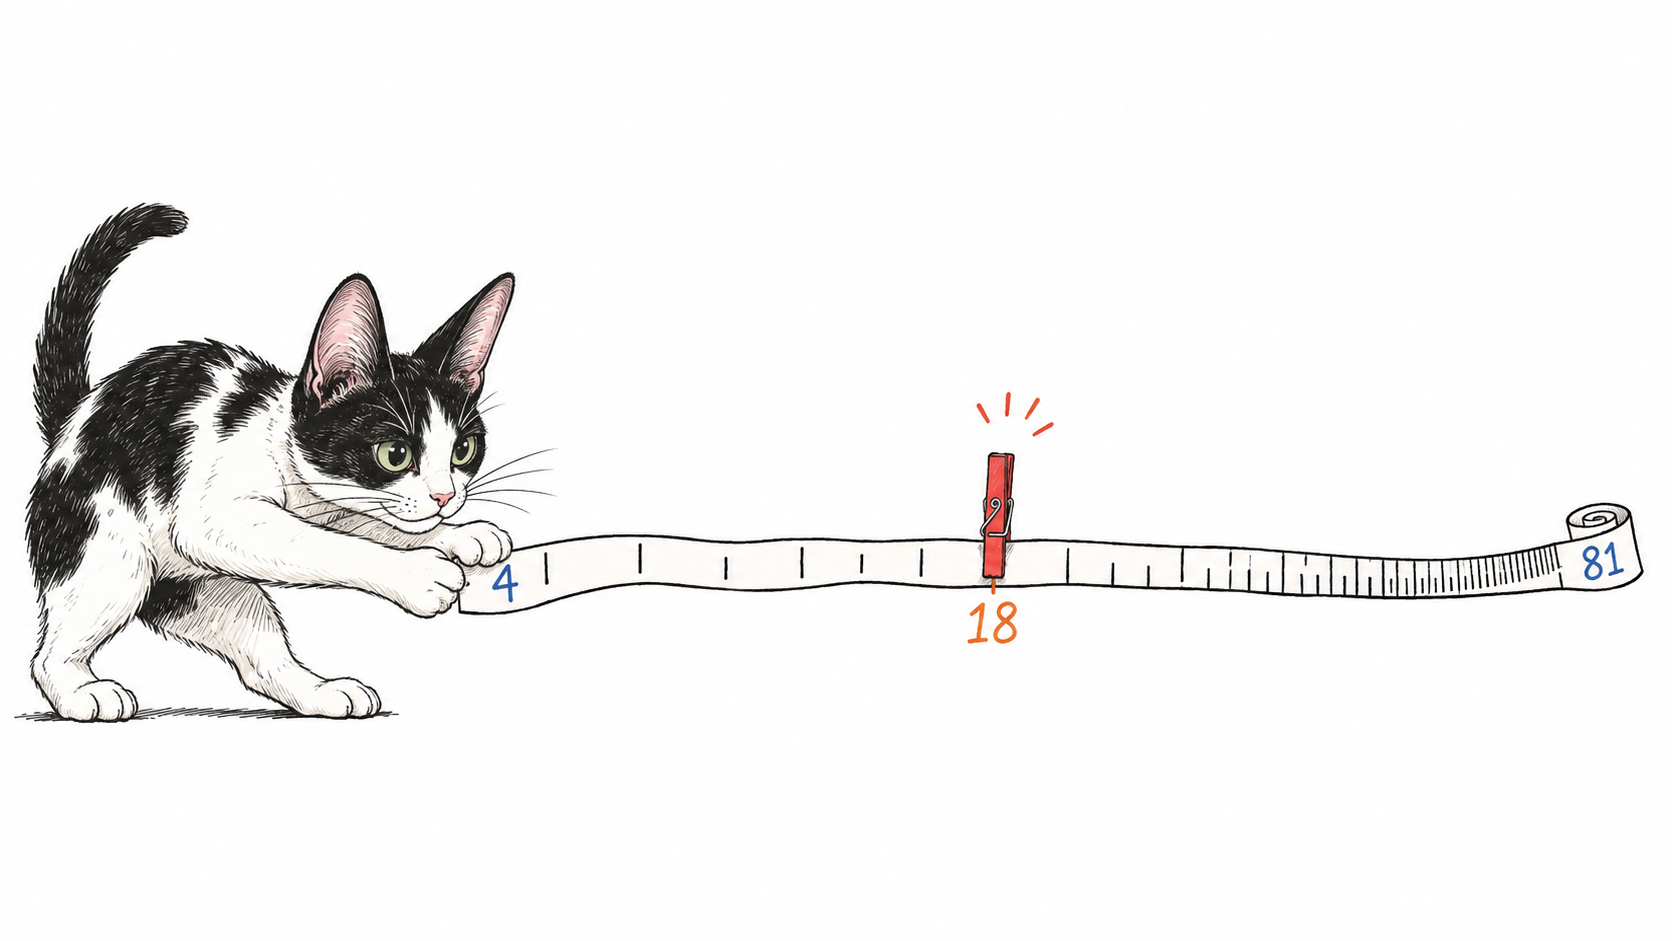
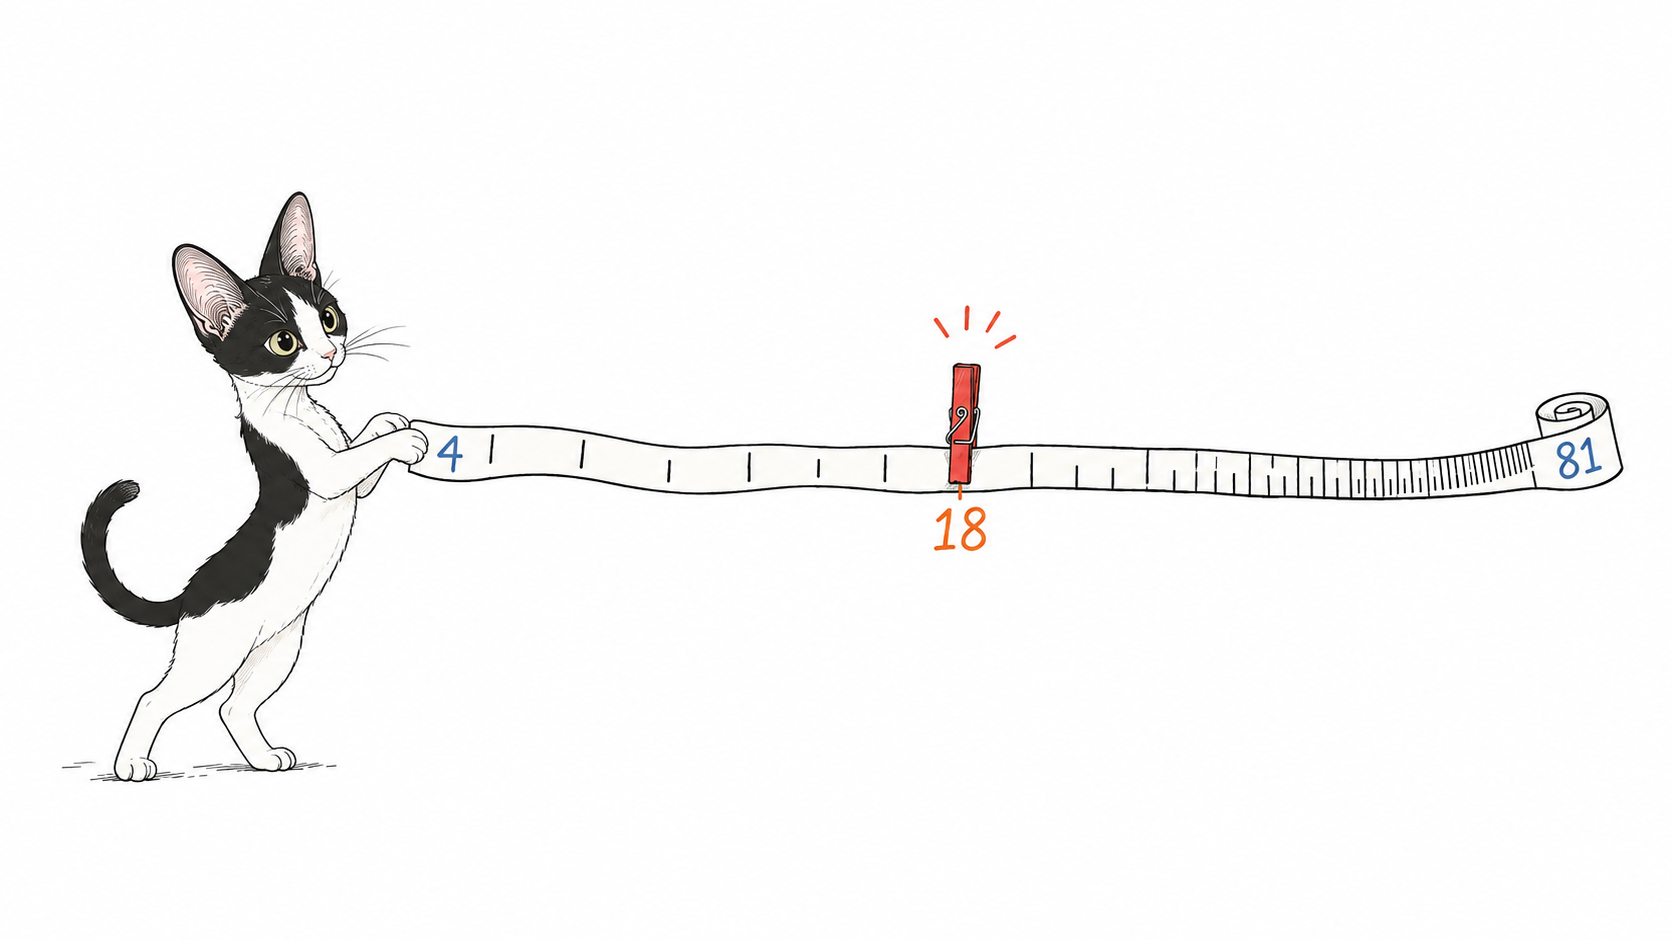
content: restore Molly character style in subjective-time cover

Changed region(s): [[0.0, 0.1851, 0.9952, 0.833]]

diff --git a/content/assets/wechat-covers/2026-11-02-160210/prompt.md b/content/assets/wechat-covers/2026-11-02-160210/prompt.md
@@ -2,8 +2,26 @@
 
 用途：仅作为公众号草稿封面，不插入文章正文。
 
-使用内置 image_gen 生成。生成前查看 assets/writing/molly-note.jpg，以 Molly 为动作主体；时间尺刻度渐密，4、18、81 对应正文中的对数模型示例。
+当前版本：2026-11-03 重绘，使用内置 image_gen。第一版毛发太写实，第二版圆头短腿偏离 Molly；当前版以旧相册封面中的 Molly 为主要身份参考，保留大而直立的尖耳朵、窄脸、大眼睛、修长身体与细长四肢，简化毛发细节。不要把“可爱”直接理解为圆头、短腿或通用 Q 版猫。
+
+参考图（顺序与生成输入一致）：
+
+1. content/assets/albums/ai-native-content-system/cover-v2.jpg：右侧 Molly 的脸型和形象。
+2. content/assets/content-system-04-small-talk-posters/01-note-to-newspic-pages.png：身体比例与动作。
+3. content/assets/always-on-agent-organization/01-a-place-at-the-table.png：线条与简化程度。
+4. 上一版体感时间封面：仅参考时间尺构图，旧版保留在 Git 历史中。
+
+原始生成文件：/Users/ethancc/.codex/generated_images/01a125f3-681e-7fe2-8522-a739042f425a/exec-3ed4e039-ebf0-48d9-8aeb-78b15b815a92.png
 
 ## 实际提示词
 
-Create one original 16:9 horizontal editorial illustration for a Chinese blog about a logarithmic model of subjective time, where starting at age 4 and ending at age 81 gives a subjective midpoint at age 18. Pure white background, delicate slightly irregular black hand-drawn ink lines, restrained red/orange/blue annotations, at least 40 percent blank white space. Quiet witty adult sketchbook style, no paper texture, shadows, gradients, decorative border, headline, logo, UI, flowchart or presentation slide. One physical metaphor only: Molly, a real black-and-white cat with very large upright ears, black ears and patches around the eyes, a white blaze and white muzzle, a tiny pink nose, round greenish eyes, white chest/legs and irregular black back patches, is actively pulling out a long flexible paper measuring ribbon with her forepaws. The ribbon runs horizontally through the center; its age marks are widely spaced on the left and become increasingly crowded to the right. Only three small hand-written numeric labels appear: '4' at the left end, '18' at the physical midpoint highlighted by one small red clothespin, '81' at the right end. No other text. Marks should approximately follow a logarithmic progression so 4 to 18 and 18 to 81 occupy equal horizontal spans. The cat takes the action seriously and has believable cat proportions, not a baby-faced mascot. Keep the action and all important content in the central horizontal crop-safe region, generously padded on all sides; compose for 16:9. Do not use a black silhouette stick figure. The scene expresses a mathematical model, not a scientific assertion about memory. Identity inspiration is the inspected Molly photo; retain distinctive black/white coat markings and large ears.
+Redraw a 16:9 Chinese essay cover using the SAME illustrated cat character Molly shown in the supplied earlier illustrations. Character continuity is the main requirement; do not redesign her.
+REFERENCE ROLES:
+Image 1 (portrait-format album cover): PRIMARY reference for Molly, the BLACK-AND-WHITE cat on the RIGHT. Match her exact appealing facial proportions: very large upright triangular ears, narrow little face, big attentive gold-green eyes, small pink nose, white forehead blaze and white muzzle. Her head is NOT a circular ball. Her body is slender, her legs are relatively long and delicate, her paws are small. Preserve the irregular black-and-white pattern. Ignore the human and white fluffy cat.
+Image 2 (cats at a paper roller): reference for Molly's slender silhouette, big ears, lively posture and slightly quirky, curious charm.
+Image 3 (cat pushing a table): PRIMARY reference for the clean, light hand-drawn line treatment and limited flat colors. Match that illustration's refinement and natural proportions. Keep only a few small fur curls at patch boundaries; no dense engraved hatching or individually rendered hairs.
+Image 4 (existing time ruler cover): reference ONLY for the ruler concept and its 4 / 18 / 81 labels. Do not copy this cat's realistic fur rendering or stiff anatomy.
+NEW SCENE: Molly is alone at the left, standing lightly on her hind legs, lean body tilted backwards as she holds and gently tugs the left end of a long flexible paper time ruler with her two small front paws. Her face is in three-quarter view toward the viewer, eyes looking curiously along the ruler. Her tail curves softly behind. Keep the same distinctive Molly face and tall ears as image 1. Her expression is charming and intent, without an exaggerated smile.
+The time ruler extends to the right, its small ticks becoming progressively more closely spaced toward the right. Label only '4' at its left endpoint, '18' exactly halfway along its horizontal span, and '81' at the right endpoint. A tiny red clothespin marks 18; 4-to-18 and 18-to-81 have equal physical span. Endpoint numerals may be muted blue; 18 is restrained orange-red. This is one small, playful physical metaphor, not a chart.
+Pure white background, generous whitespace, fine black ink contours, light and uncluttered hand-drawn editorial illustration. Frame at 16:9 with the action and ruler in a generous central crop-safe horizontal band and padding at the edges. No humans, no other cats, no diagram, no headline, no other text, no border, no paper texture.
+CRITICAL: Match the established Molly from the earlier illustrations, not a generic cute cat. No chibi proportions, no bean-shaped squat body, no circular giant head, no stubby legs, no thick cartoon outlines, no huge Disney eyes, and no realistic fur study. The appeal should come from Molly's existing face and earnest pose, not from making her rounder.
